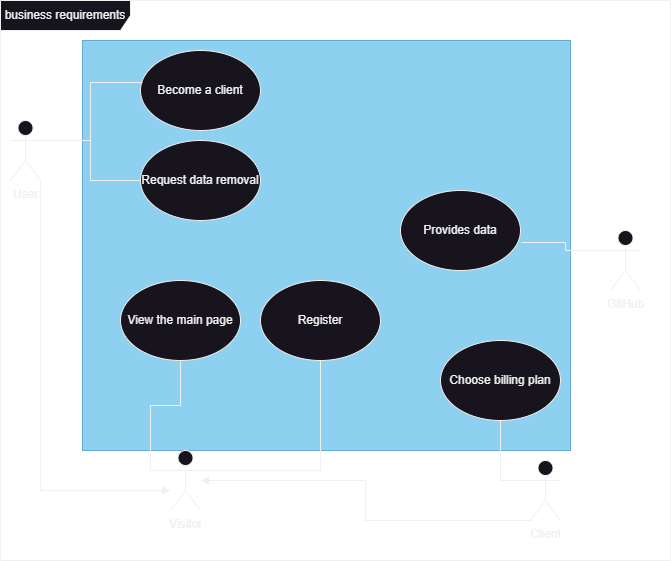
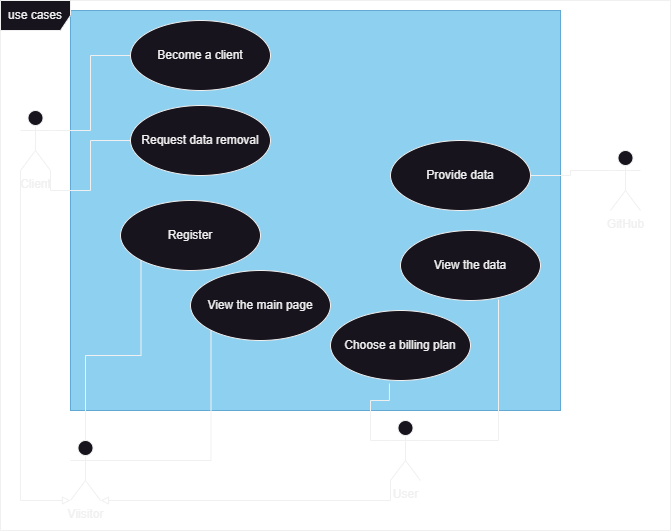
Add domain model; Add use case

diff --git a/docs/business_requirements.md b/docs/business_requirements.md
@@ -27,6 +27,7 @@ Use case is a list of actions defining the interactions between an actor and a s
   * Become a client
 * StatsNinja's client
   * Choose a different billing plan
+  * View the data, provided by the billing plan
 
 The diagram of use cases can be viewed below:
 

diff --git a/docs/domain_model.md b/docs/domain_model.md
@@ -1,0 +1,3 @@
+## Domain Model
+
+![domain model](figs/domain_model.png)
